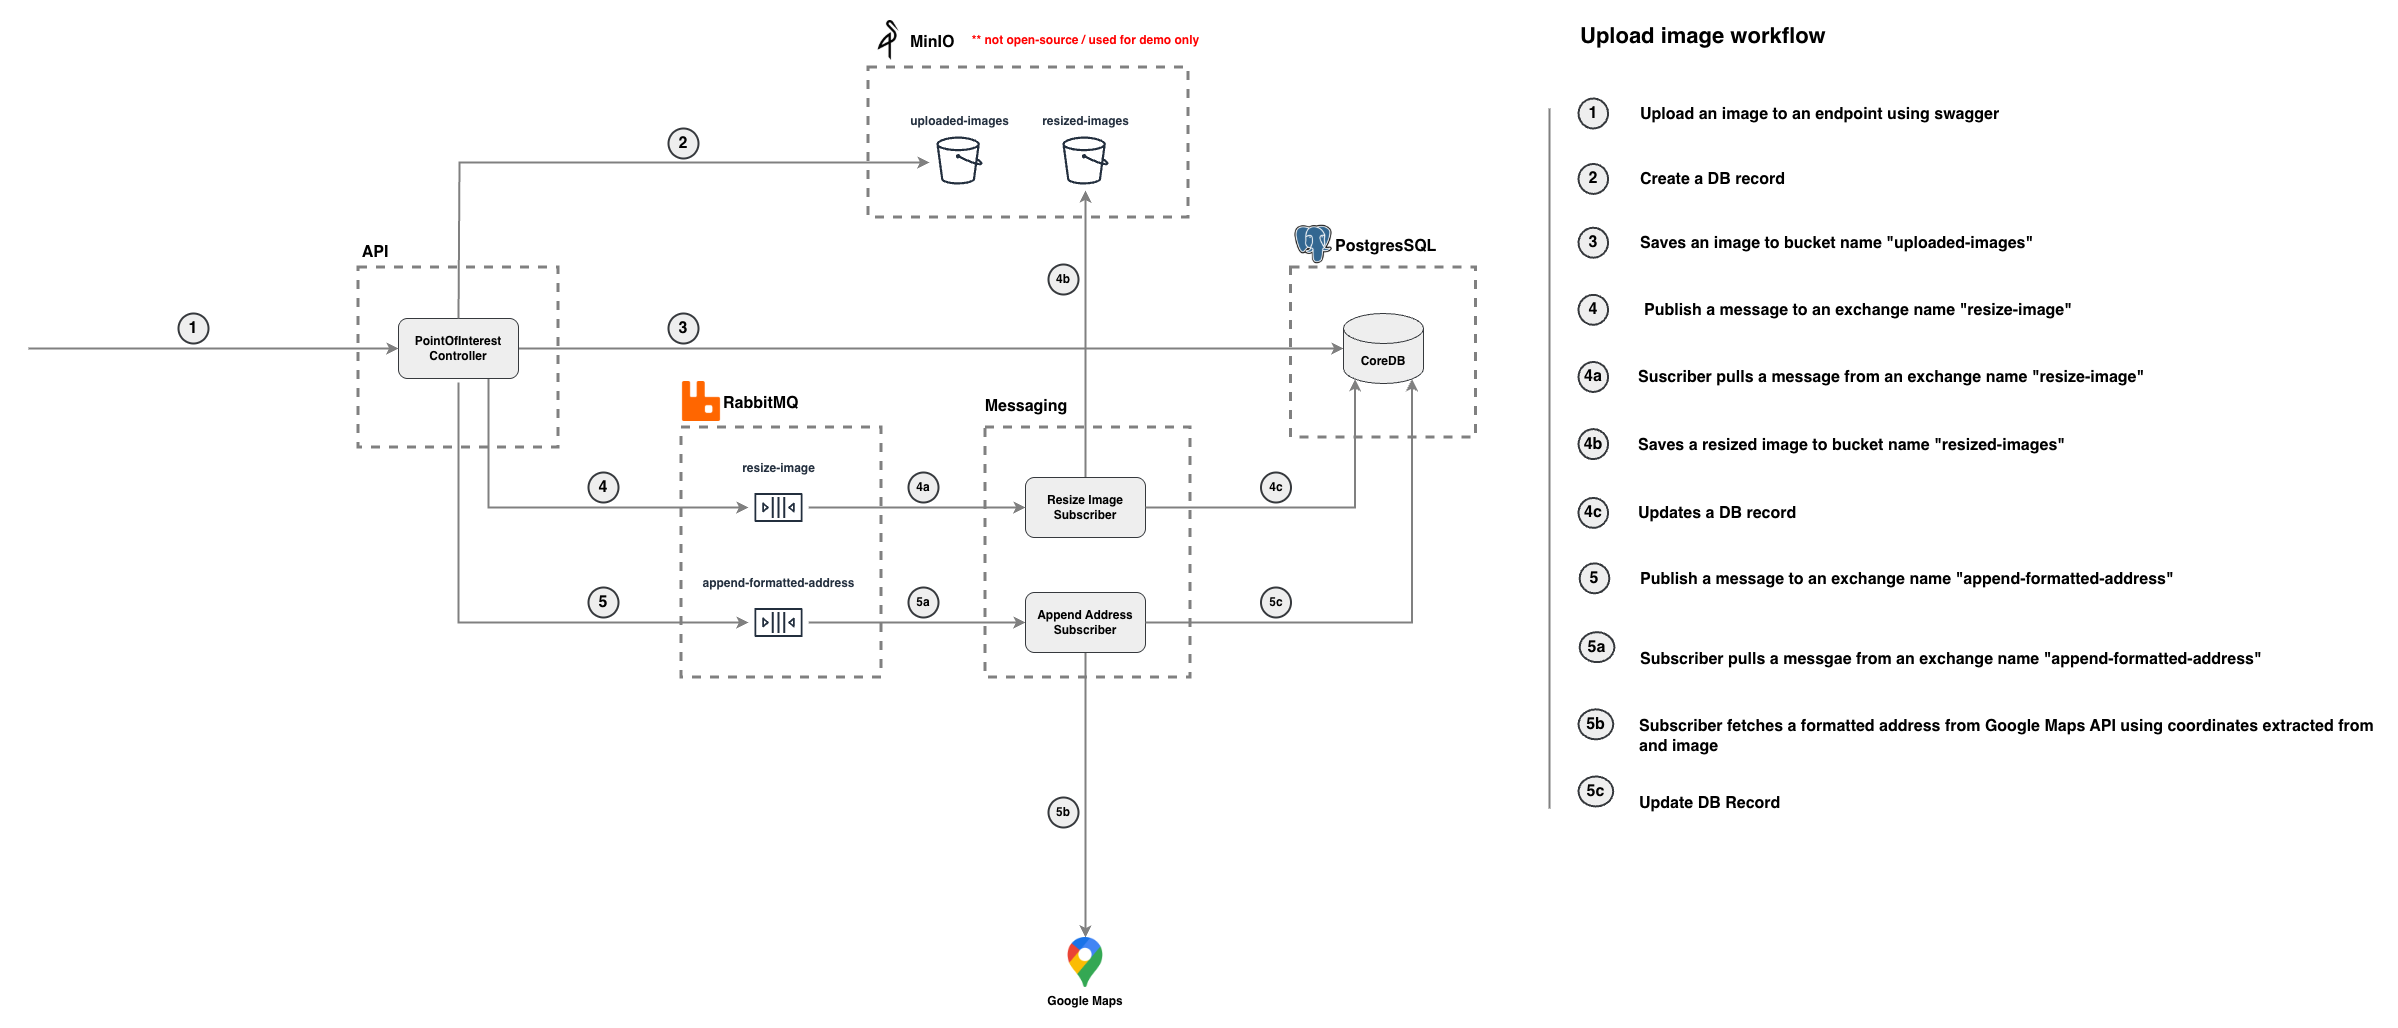
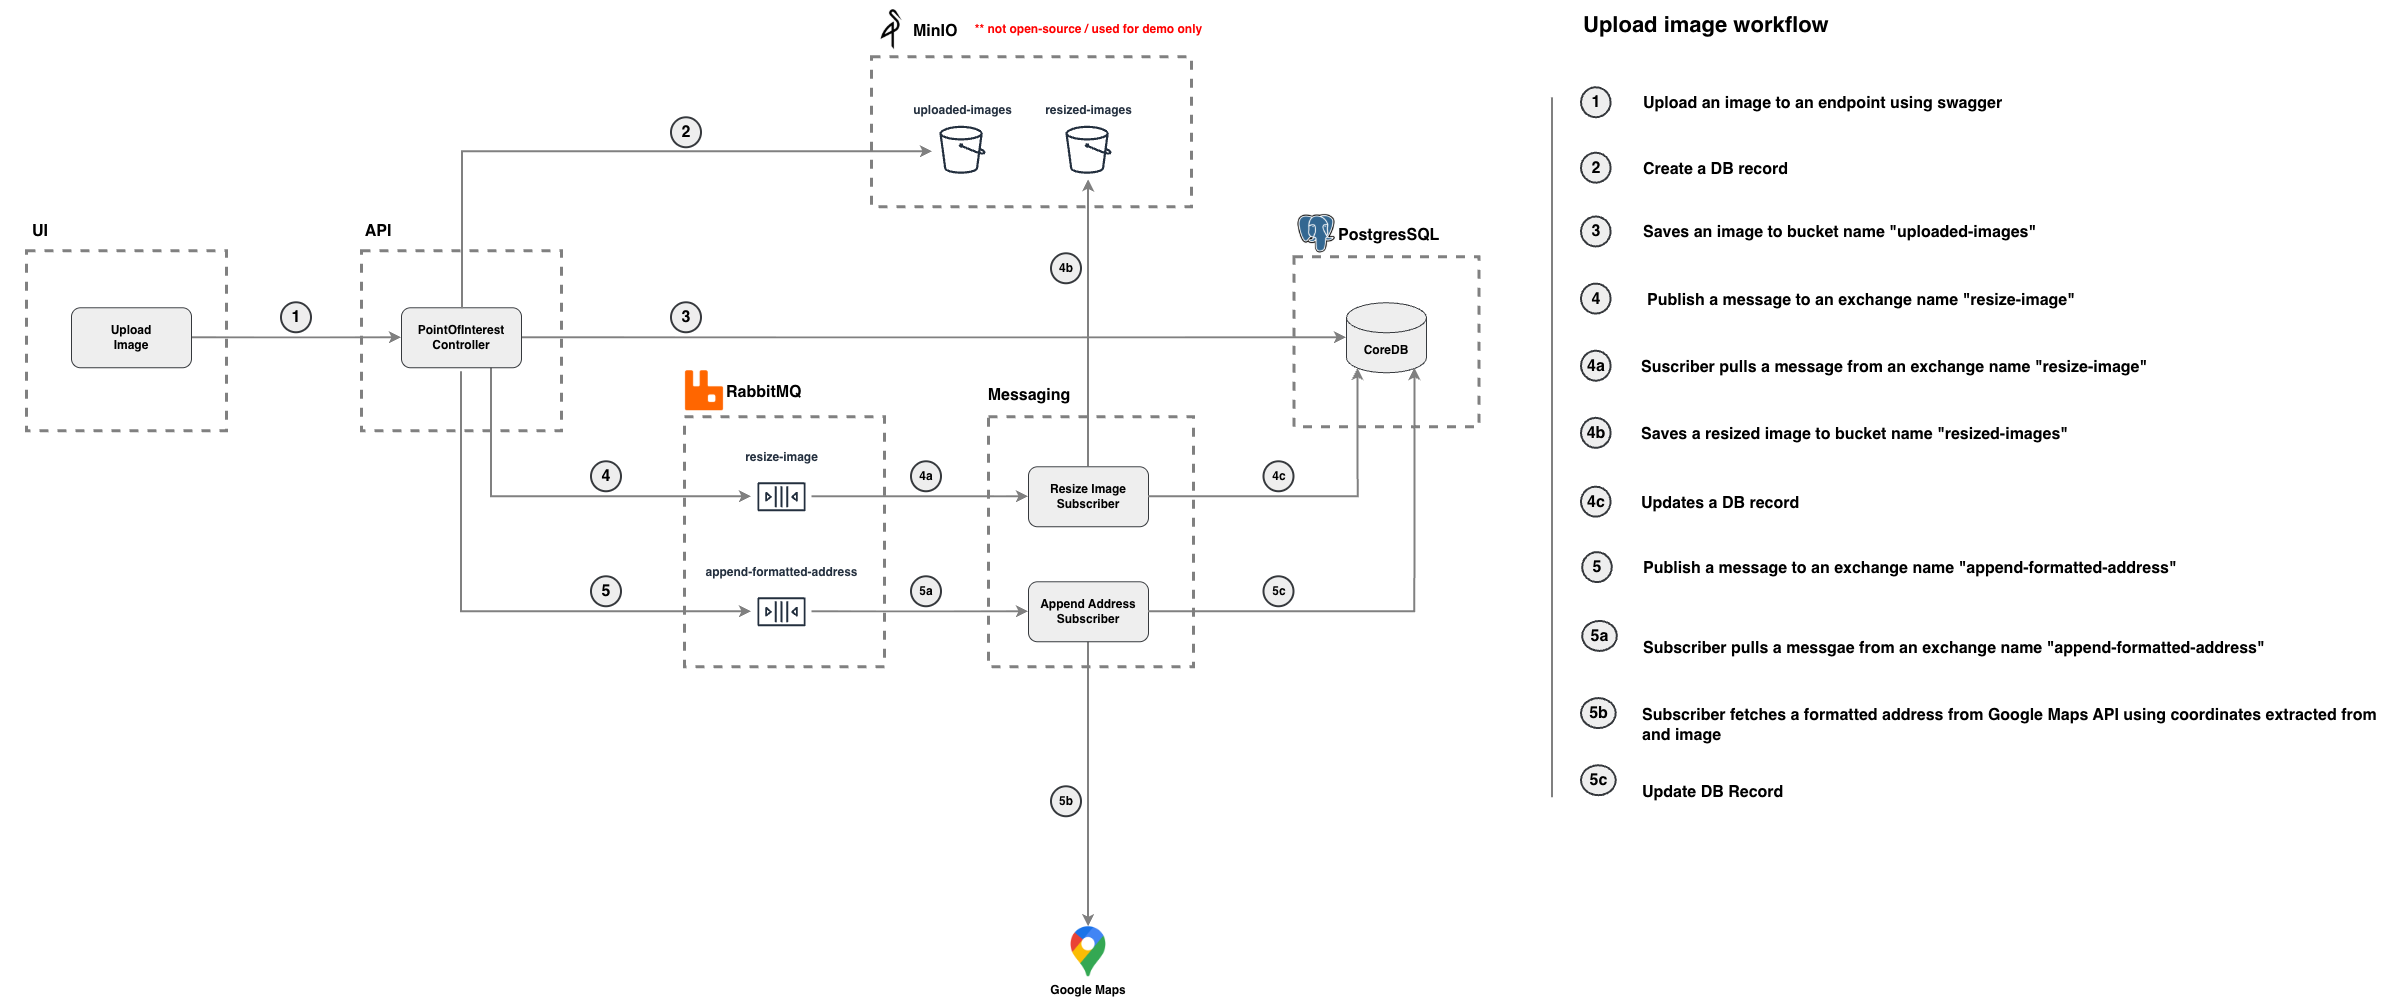
chore: update architecture

diff --git a/prompts/scaffold react app.md b/prompts/scaffold react app.md
@@ -1,7 +1,7 @@
 Create a React app (Vite + TypeScript + Tailwind CSS) called "MyTravels POI Viewer".
 
 Data source: a .NET API at http://localhost:5101 (CORS must be configured
-server-side for the Vite dev origin — assume http://localhost:5173).
+server-side for the Vite dev origin — assume http://localhost:5100).
 
 Endpoints used:
 - GET  /api/PointOfInterest
